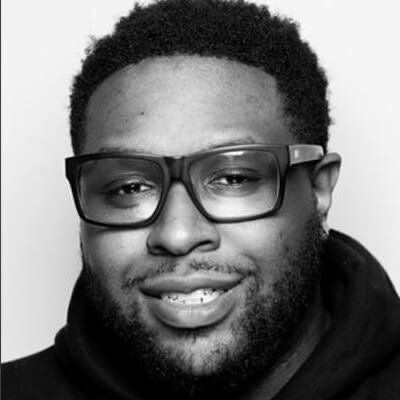
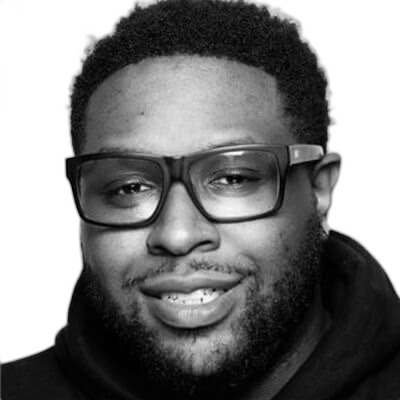
Team Defiant: white photo backgrounds, square crops, equal-length bios
Photos
- Re-cuts every headshot with a portrait-aware background remover so
  the original (varied) backgrounds are stripped cleanly. Each cut
  is then composited onto solid white and padded to a perfect square
  so faces sit centered when the circular frame applies.
  - Carless: charcoal studio swapped for white.
  - Brandon: dark studio swapped for white.
  - Mathias Pogba: green pitch swapped for white.
  - Paul Pogba: rainy stadium swapped for white.
  - Hassan Wardere: photo squared and centered, head no longer
    chopped by the circle.
- The circular .team-photo-frame now renders on solid white with
  a hairline border instead of the dark gradient, so any residual
  edge from a removed background blends seamlessly with the card.

Bios
- Trims the long Brandon and Paul Pogba bios down to match the
  Carless reference (94 words). Cuts come from the trailing
  sentences. Mathias and Hassan stay as is (already shorter).

https://claude.ai/code/session_01YCZnFpDiVqd7m2BfJMfVdC

diff --git a/index.html b/index.html
@@ -1750,15 +1750,16 @@
         height: 100%;
         border-radius: 50%;
         overflow: hidden;
-        background: linear-gradient(135deg, #111418 0%, #2a3138 100%);
-        color: #fff;
+        background: #ffffff;
+        color: var(--ink);
         display: grid;
         place-items: center;
         font-family: var(--font);
         font-size: 38px;
         font-weight: 700;
         letter-spacing: -0.02em;
-        box-shadow: 0 6px 18px rgba(15, 18, 24, 0.18);
+        border: 1px solid var(--line);
+        box-shadow: 0 6px 18px rgba(15, 18, 24, 0.12);
       }
       .team-photo-frame::before {
         content: attr(data-initials);
@@ -2815,7 +2816,7 @@
           slug: "brandon",
           name: "Jamal “Mally” Brandon",
           role: "VP, Digital Media & Growth Strategy",
-          bio: "Jamal “Mally” Brandon is a music executive and serial entrepreneur with a proven track record spanning production, artist management, and digital media strategy. Having worked with multi-platinum artists and legacy acts, he built his expertise in production before transitioning into executive leadership, driving impactful business and content initiatives. As a key force behind Shot Selection Media, he has contributed to generating over 1 billion YouTube views through targeted digital marketing and audience growth strategies. Now serving as VP of Digital Media & Growth Strategies, Brandon leverages his cross-functional expertise to scale digital reach, optimize engagement, and dismantle systemic mechanisms that do not add value to communities they market to."
+          bio: "Jamal “Mally” Brandon is a music executive and serial entrepreneur with a proven track record spanning production, artist management, and digital media strategy. Having worked with multi-platinum artists and legacy acts, he built his expertise in production before transitioning into executive leadership, driving impactful business and content initiatives. As a key force behind Shot Selection Media, he has contributed to generating over 1 billion YouTube views through targeted digital marketing and audience growth strategies. Now serving as VP of Digital Media & Growth Strategies, Brandon leverages his cross-functional expertise to scale reach and engagement."
         },
         {
           slug: "mathias-pogba",
@@ -2827,7 +2828,7 @@
           slug: "paul-pogba",
           name: "Paul Pogba",
           role: "Elite Ambassador",
-          bio: "Paul Pogba, currently playing for AS Monaco, is a World Cup-winning French midfielder recognized for his elite performance at the highest levels of global football. Having played for top clubs including Manchester United and Juventus, he has secured multiple domestic league titles and international honors, including the 2018 FIFA World Cup with France. Known for his versatility, technical skill, and leadership on the pitch, Pogba has also built a global brand through endorsements, philanthropy, and cultural influence beyond the sport. More recently, he has expanded his impact beyond football by becoming a shareholder and ambassador in a professional sports venture, signaling his growing presence in the global sports business landscape."
+          bio: "Paul Pogba, currently playing for AS Monaco, is a World Cup-winning French midfielder recognized for his elite performance at the highest levels of global football. Having played for top clubs including Manchester United and Juventus, he has secured multiple domestic league titles and international honors, including the 2018 FIFA World Cup with France. Known for his versatility, technical skill, and leadership on the pitch, Pogba has also built a global brand through endorsements, philanthropy, and cultural influence beyond the sport. More recently, he became a shareholder and ambassador in a major global sports venture."
         },
         {
           slug: "hassan",

diff --git a/public/index.html b/public/index.html
@@ -1750,15 +1750,16 @@
         height: 100%;
         border-radius: 50%;
         overflow: hidden;
-        background: linear-gradient(135deg, #111418 0%, #2a3138 100%);
-        color: #fff;
+        background: #ffffff;
+        color: var(--ink);
         display: grid;
         place-items: center;
         font-family: var(--font);
         font-size: 38px;
         font-weight: 700;
         letter-spacing: -0.02em;
-        box-shadow: 0 6px 18px rgba(15, 18, 24, 0.18);
+        border: 1px solid var(--line);
+        box-shadow: 0 6px 18px rgba(15, 18, 24, 0.12);
       }
       .team-photo-frame::before {
         content: attr(data-initials);
@@ -2815,7 +2816,7 @@
           slug: "brandon",
           name: "Jamal “Mally” Brandon",
           role: "VP, Digital Media & Growth Strategy",
-          bio: "Jamal “Mally” Brandon is a music executive and serial entrepreneur with a proven track record spanning production, artist management, and digital media strategy. Having worked with multi-platinum artists and legacy acts, he built his expertise in production before transitioning into executive leadership, driving impactful business and content initiatives. As a key force behind Shot Selection Media, he has contributed to generating over 1 billion YouTube views through targeted digital marketing and audience growth strategies. Now serving as VP of Digital Media & Growth Strategies, Brandon leverages his cross-functional expertise to scale digital reach, optimize engagement, and dismantle systemic mechanisms that do not add value to communities they market to."
+          bio: "Jamal “Mally” Brandon is a music executive and serial entrepreneur with a proven track record spanning production, artist management, and digital media strategy. Having worked with multi-platinum artists and legacy acts, he built his expertise in production before transitioning into executive leadership, driving impactful business and content initiatives. As a key force behind Shot Selection Media, he has contributed to generating over 1 billion YouTube views through targeted digital marketing and audience growth strategies. Now serving as VP of Digital Media & Growth Strategies, Brandon leverages his cross-functional expertise to scale reach and engagement."
         },
         {
           slug: "mathias-pogba",
@@ -2827,7 +2828,7 @@
           slug: "paul-pogba",
           name: "Paul Pogba",
           role: "Elite Ambassador",
-          bio: "Paul Pogba, currently playing for AS Monaco, is a World Cup-winning French midfielder recognized for his elite performance at the highest levels of global football. Having played for top clubs including Manchester United and Juventus, he has secured multiple domestic league titles and international honors, including the 2018 FIFA World Cup with France. Known for his versatility, technical skill, and leadership on the pitch, Pogba has also built a global brand through endorsements, philanthropy, and cultural influence beyond the sport. More recently, he has expanded his impact beyond football by becoming a shareholder and ambassador in a professional sports venture, signaling his growing presence in the global sports business landscape."
+          bio: "Paul Pogba, currently playing for AS Monaco, is a World Cup-winning French midfielder recognized for his elite performance at the highest levels of global football. Having played for top clubs including Manchester United and Juventus, he has secured multiple domestic league titles and international honors, including the 2018 FIFA World Cup with France. Known for his versatility, technical skill, and leadership on the pitch, Pogba has also built a global brand through endorsements, philanthropy, and cultural influence beyond the sport. More recently, he became a shareholder and ambassador in a major global sports venture."
         },
         {
           slug: "hassan",
